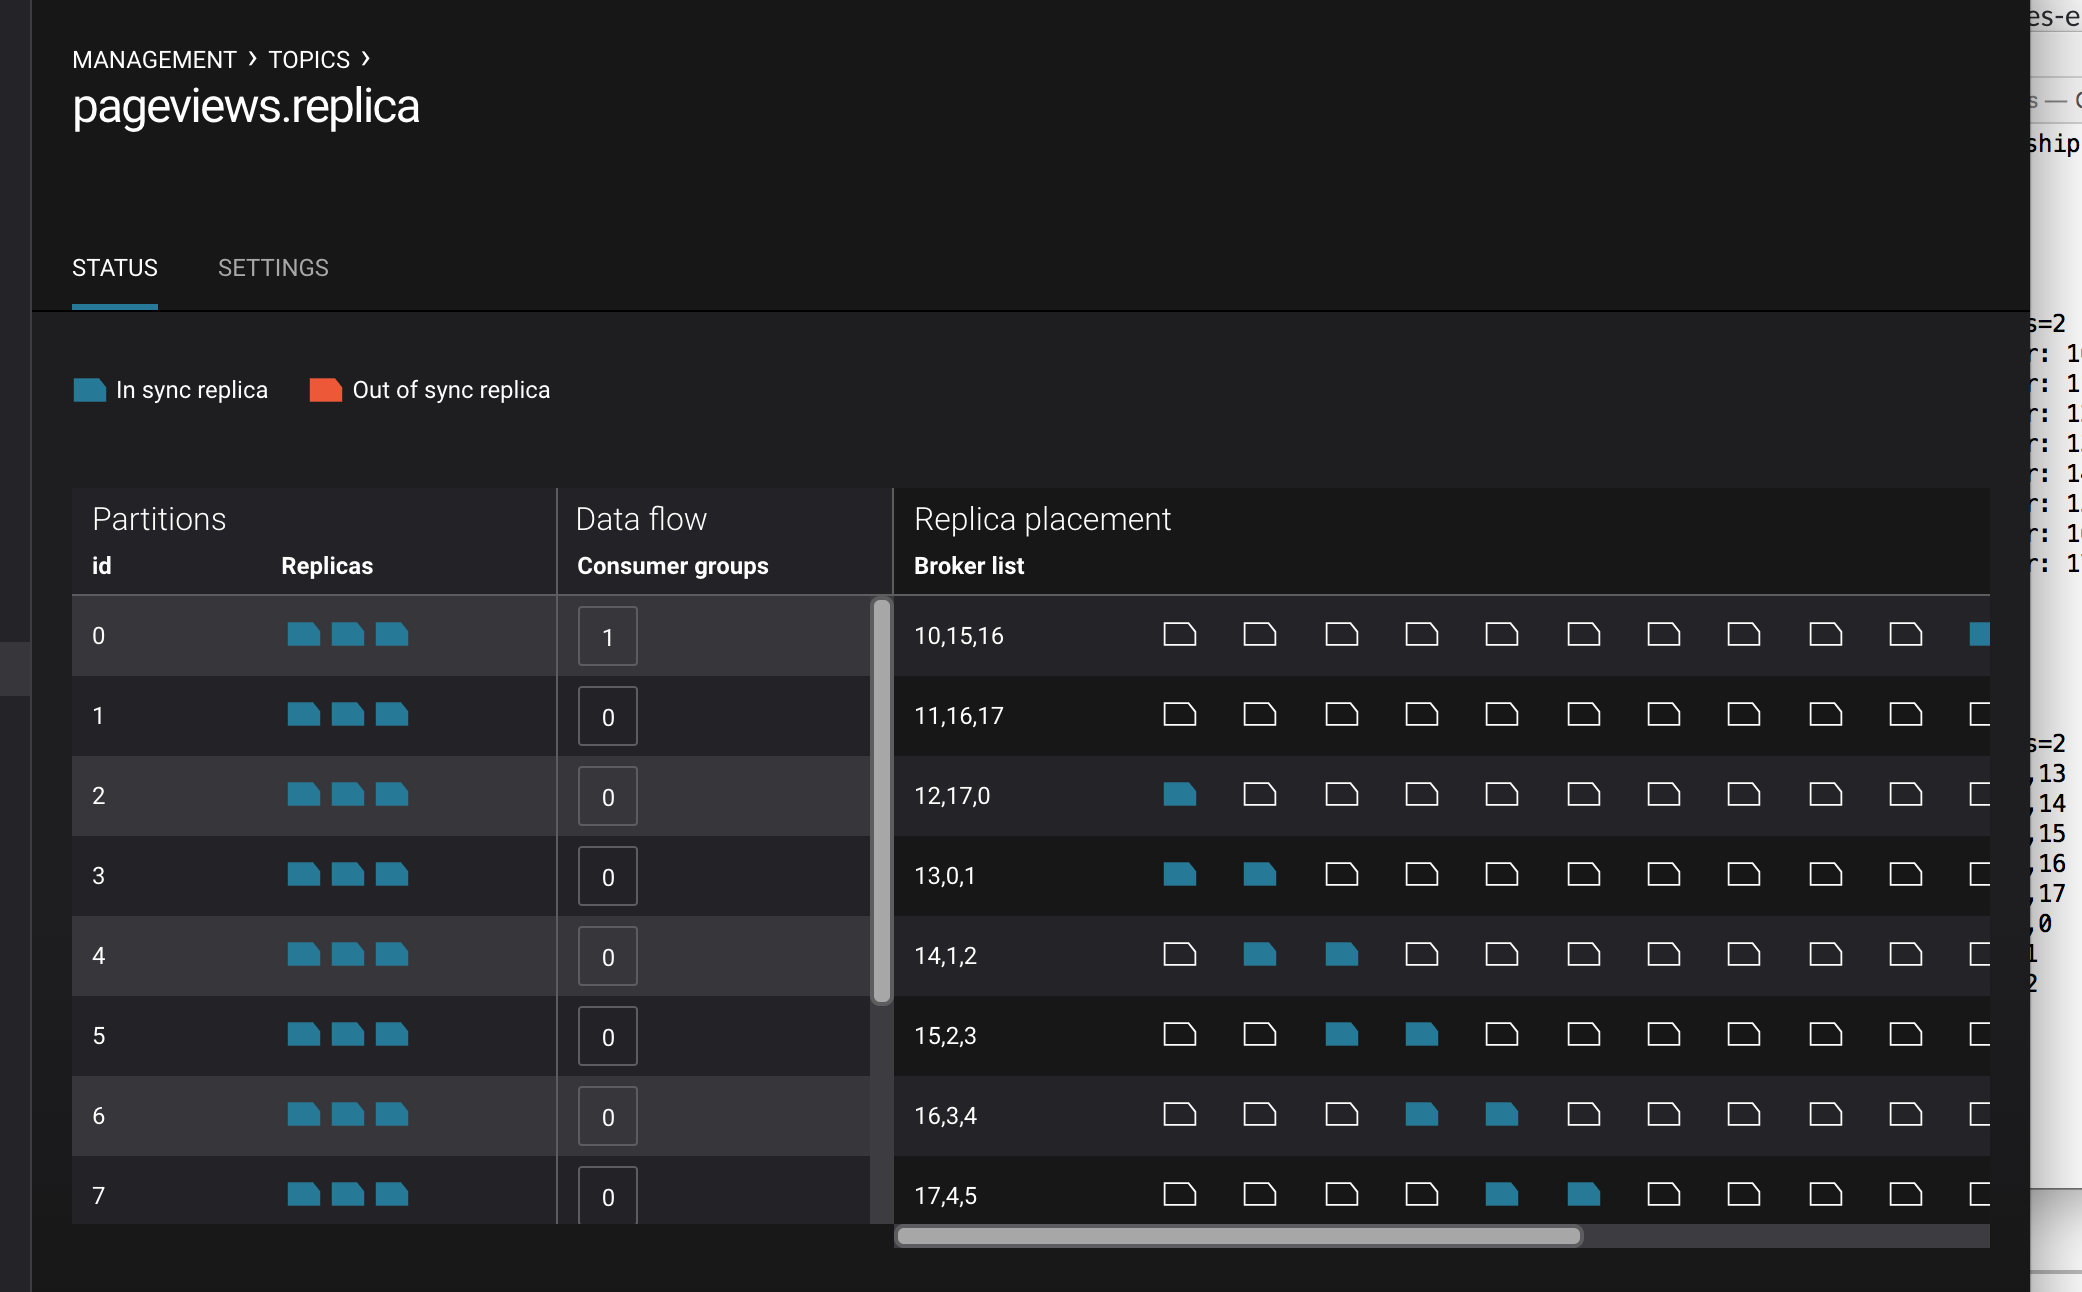
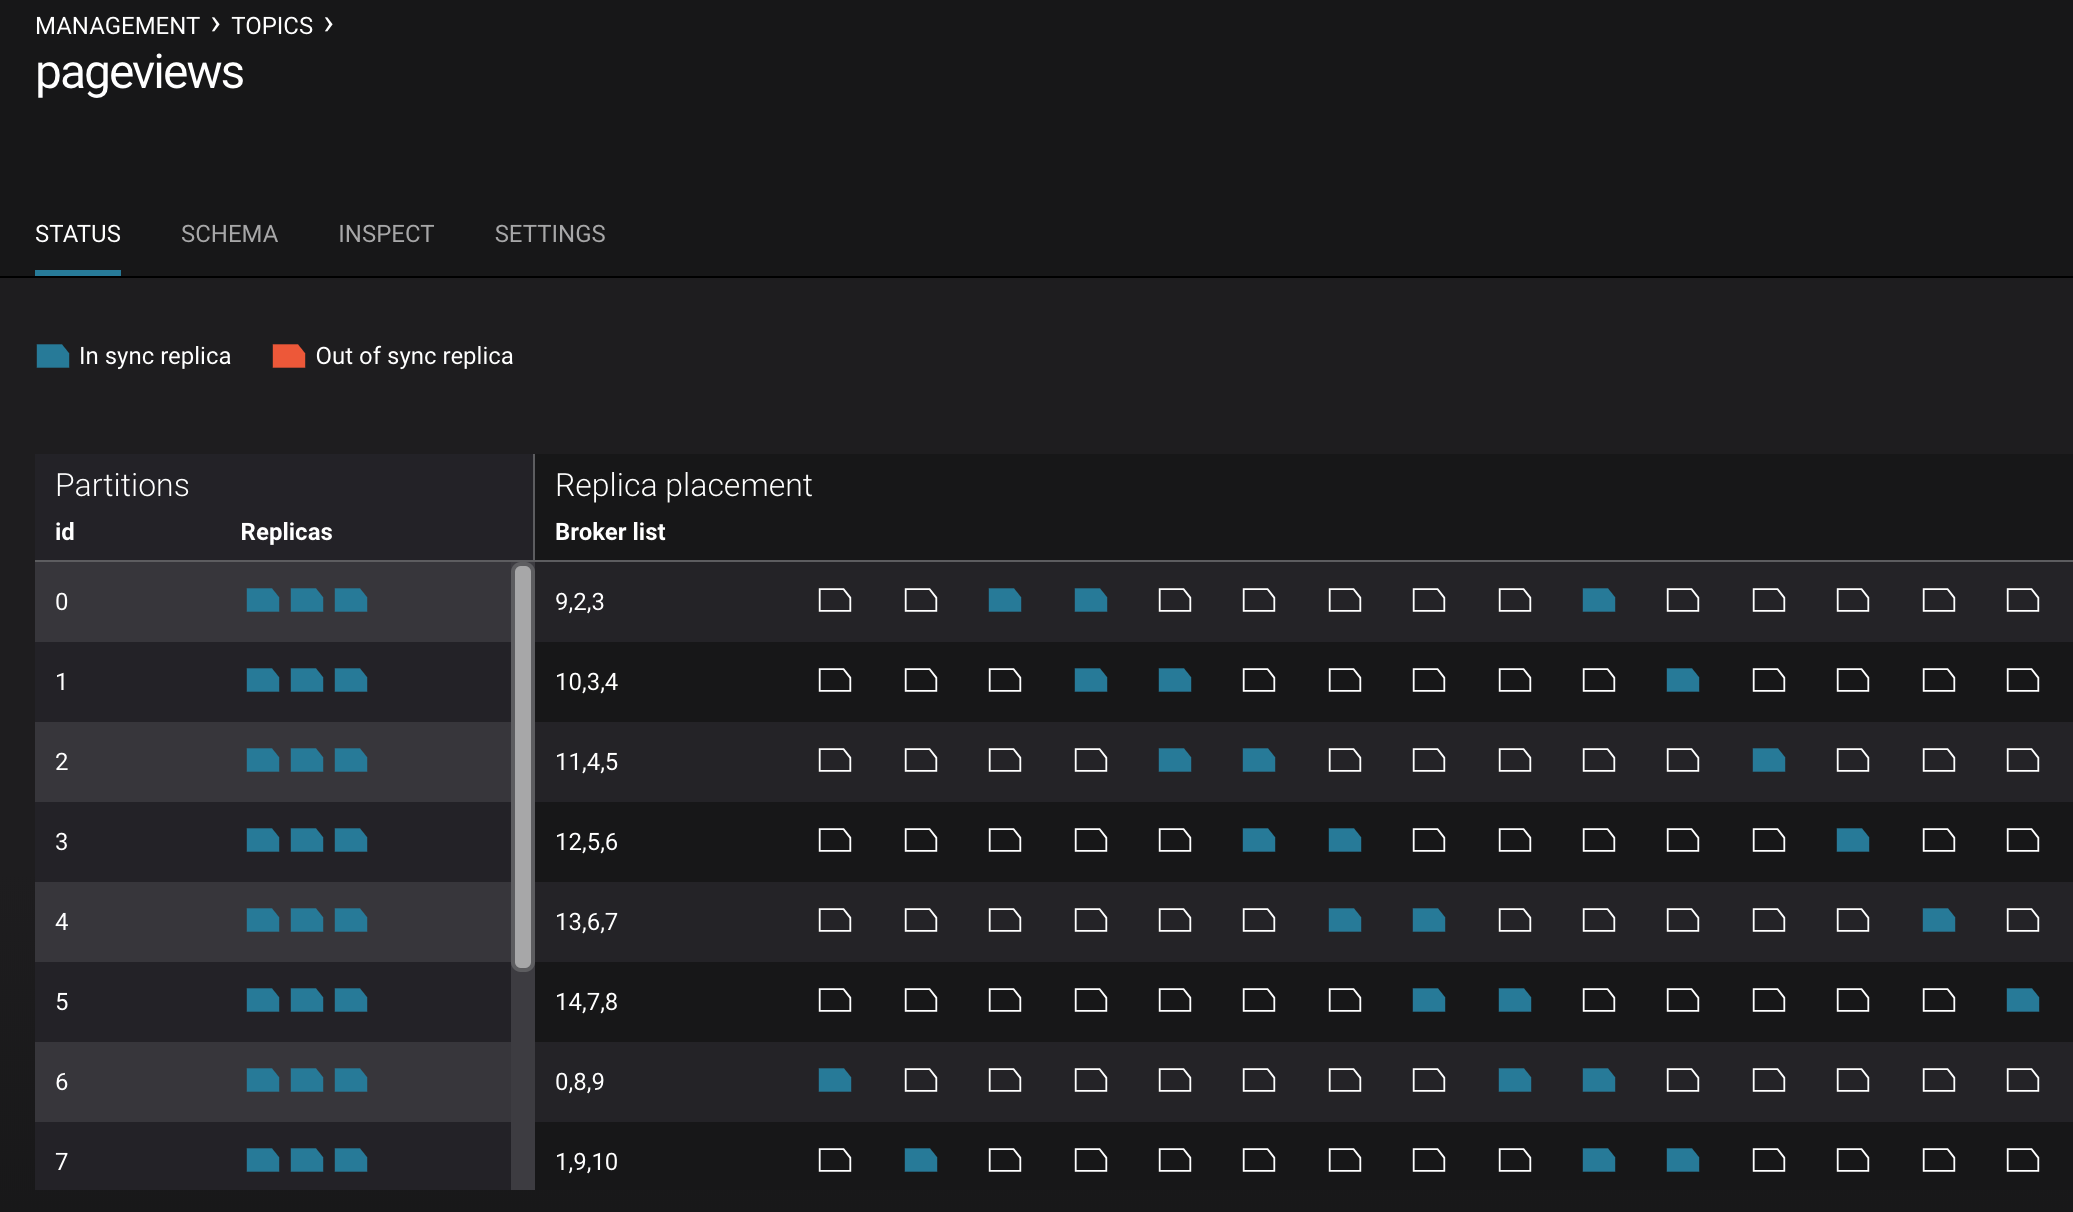
DOCS-727: update screenshots and matching text

diff --git a/ccloud/docs/index.rst b/ccloud/docs/index.rst
@@ -166,7 +166,7 @@ KSQL
 
       ksql> SHOW PROPERTIES;
 
-4. View the existing KSQL streams and describe one of those streams called ``WIKIPEDIABOT``.
+4. View the existing KSQL streams and describe one of those streams called ``PAGEVIEWS_FEMALE_LIKE_89``.
 
    .. sourcecode:: bash
 
@@ -194,7 +194,7 @@ KSQL
       For runtime statistics and query details run: DESCRIBE EXTENDED <Stream,Table>;
 
 
-5. View the existing KSQL tables and describe one of those tables called ``EN_WIKIPEDIA_GT_1``.
+5. View the existing KSQL tables and describe one of those tables called ``PAGEVIEWS_REGIONS``.
 
    .. sourcecode:: bash
 
@@ -220,7 +220,7 @@ KSQL
       For runtime statistics and query details run: DESCRIBE EXTENDED <Stream,Table>;
 
 
-6. View the existing KSQL queries, which are continuously running, and explain one of those queries called ``CSAS_WIKIPEDIABOT``.
+6. View the existing KSQL queries, which are continuously running, and explain one of those queries called ``CSAS_PAGEVIEWS_FEMALE_LIKE_89``.
 
    .. sourcecode:: bash
 
@@ -318,8 +318,9 @@ a self-hosted cluster, and the destination cluster is |ccloud|.
 
 
 3. View the replicated topics `pageviews` in the |ccloud| cluster. In |c3|, for a given topic listed
-   in **Management –> Topics**, click on the three dots ``...`` next to the topic name and click on
-   ``Status`` to see brokers are leaders for which partitions.
+   in **Management –> Topics**, click on the three dots ``...`` next to the topic name to see more
+   options per topic including in sync replicas, schema, topic
+   messages, and configuration settings. Shown below is replica info.
 
    .. figure:: images/topic_info_ccloud_pageviews.png 
       :alt: image
